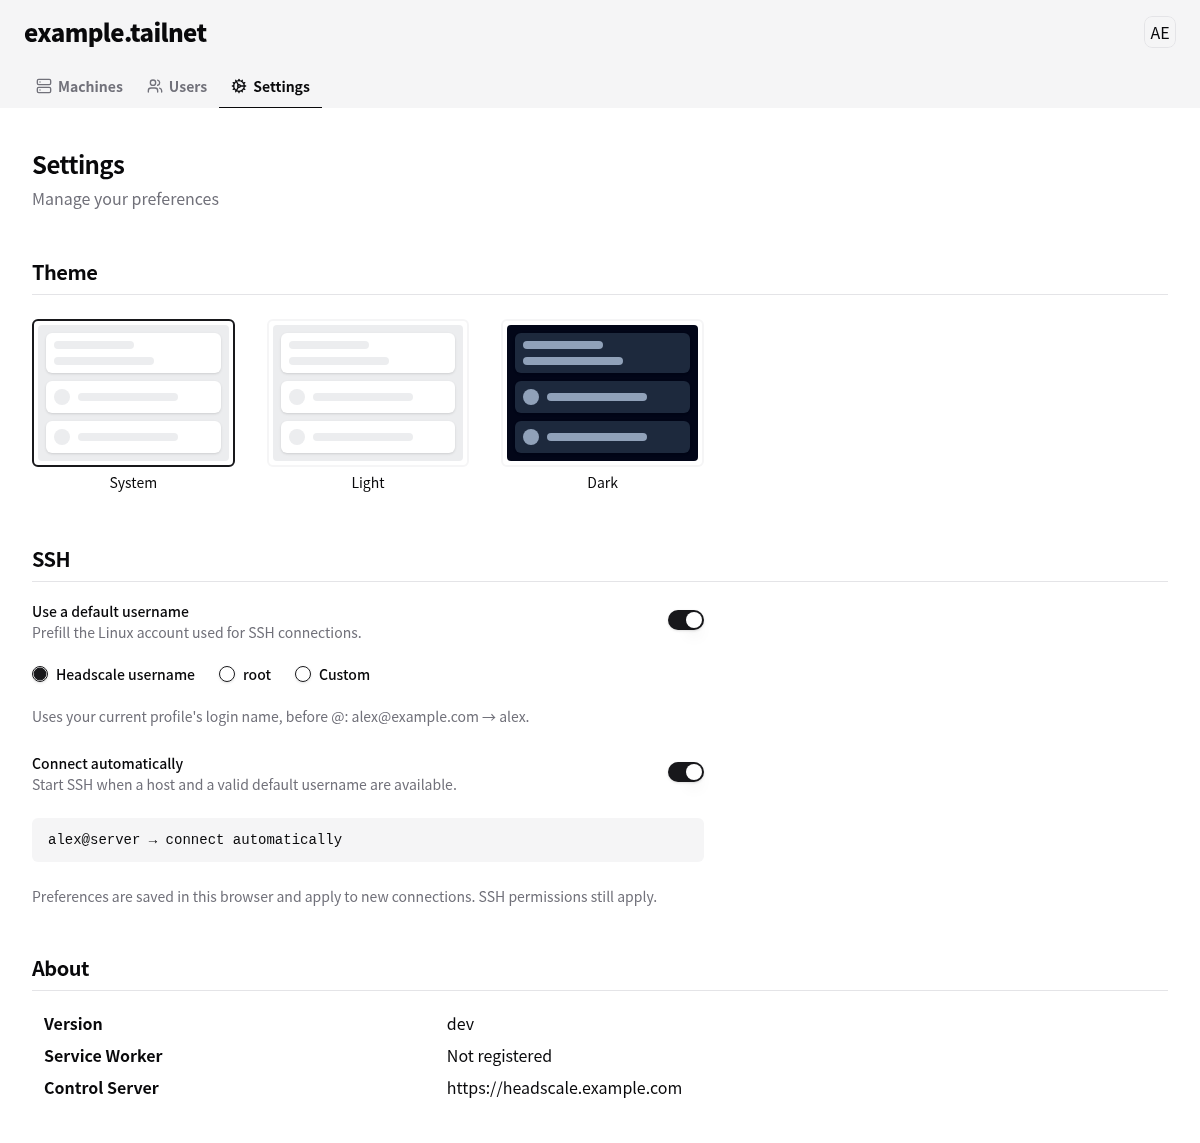
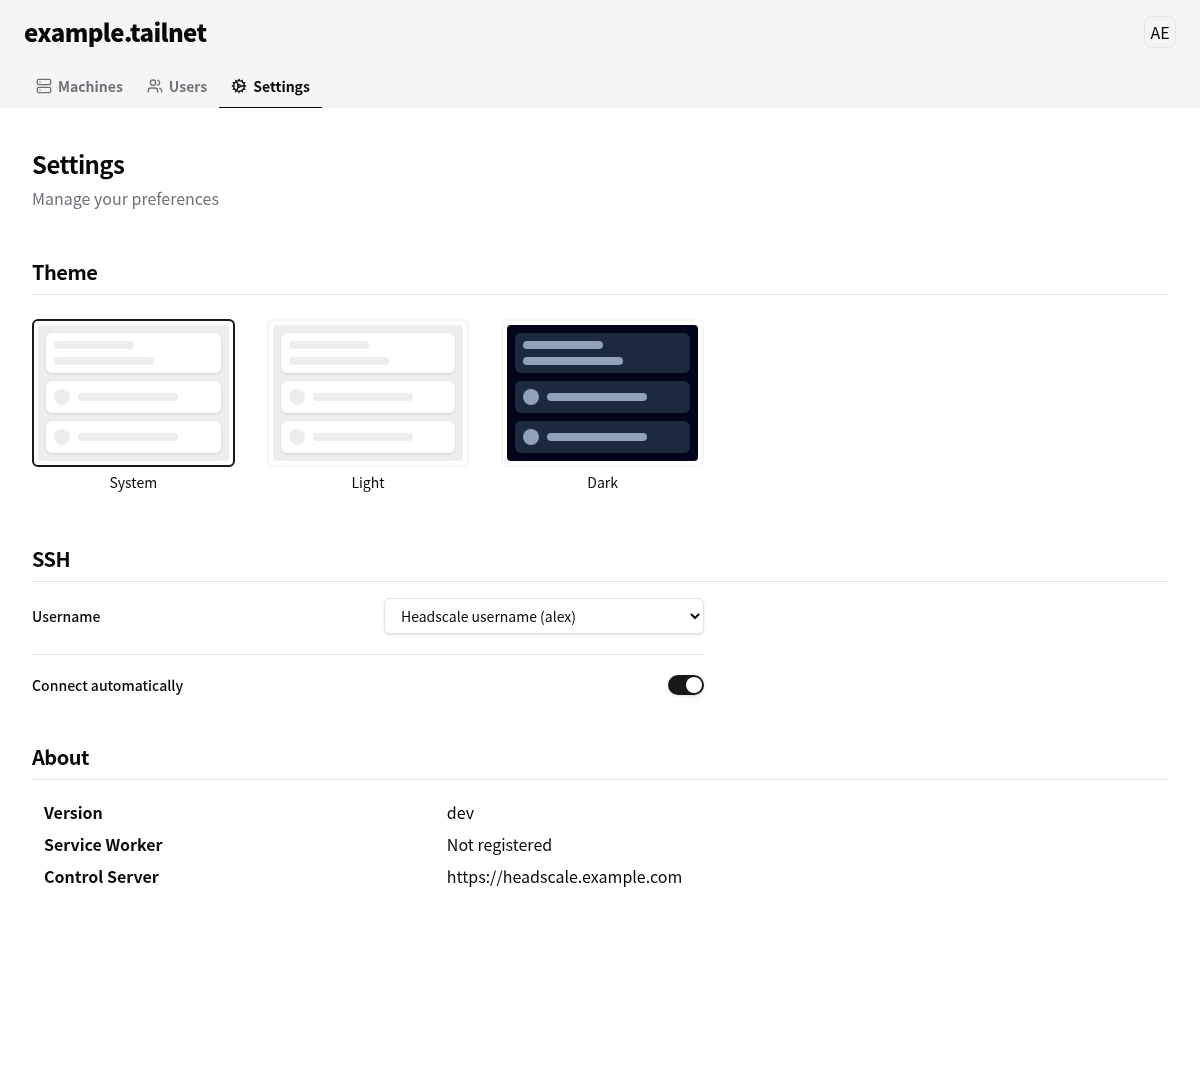
refactor(ssh): simplify connection preferences

diff --git a/docs/proposals/ssh-quick-connect/prototype.html b/docs/proposals/ssh-quick-connect/prototype.html
@@ -4,7 +4,7 @@
 <meta name="viewport" content="width=device-width, initial-scale=1">
 <title>SSH quick connect — interaction proposal</title>
 <style>
-:root{font:16px ui-sans-serif,system-ui,sans-serif;color:#09090b;background:white;--muted:#f4f4f5;--border:#e4e4e7;--subtle:#71717a}*{box-sizing:border-box}body{margin:0}header,nav{background:var(--muted)}header{padding:18px 32px;font-size:24px;font-weight:800;letter-spacing:-.6px}header span{float:right;font-size:14px;font-weight:500;border:1px solid var(--border);border-radius:8px;padding:7px}nav{padding:8px 32px 0;display:flex;gap:24px}nav a{padding:10px 0 16px;color:var(--subtle);text-decoration:none;font-size:14px}nav a.active{color:#18181b;border-bottom:1px solid}main{max-width:1280px;margin:auto;padding:36px 32px}h1{font-size:24px;letter-spacing:-.6px;margin:0}h2{font-size:20px;letter-spacing:-.5px;border-bottom:1px solid var(--border);padding-bottom:8px;margin:36px 0 20px}p{color:var(--subtle);margin:7px 0;font-size:14px;line-height:1.6}.themes{display:flex;gap:32px}.theme{width:180px;text-align:center}.mini{height:85px;background:#ecedef;padding:12px;border:2px solid var(--border);border-radius:6px}.mini.dark{background:#020617}.mini.system{border-color:#18181b}.mini i{display:block;height:15px;background:white;margin-bottom:8px;border-radius:5px}.mini.dark i{background:#1e293b}.theme p{color:inherit}.row{display:flex;align-items:center;justify-content:space-between;max-width:680px;margin:20px 0;gap:24px}.row label{font-size:14px;font-weight:500}.switch{width:36px;height:20px;border-radius:20px;background:#18181b;border:0;padding:2px;cursor:pointer;flex-shrink:0}.switch:before{content:'';display:block;width:16px;height:16px;border-radius:50%;background:white;transform:translateX(16px)}.switch[aria-checked=false]{background:var(--border)}.switch[aria-checked=false]:before{transform:none}.choices{display:flex;gap:20px;margin-top:16px;flex-wrap:wrap;font-size:14px}.choices label{display:flex;align-items:center;gap:5px}input[type=radio]{accent-color:#18181b}input[type=text]{height:36px;border:1px solid var(--border);border-radius:6px;padding:8px 12px;font:inherit;font-size:14px;width:300px}.preview{background:var(--muted);border-radius:6px;padding:12px 16px;max-width:680px;margin-top:20px;font:13px ui-monospace,monospace}button,a{touch-action:manipulation}button:focus-visible,a:focus-visible,input:focus-visible{outline:2px solid #18181b;outline-offset:3px}.note{margin-top:28px;padding-top:16px;border-top:1px solid var(--border);font-size:12px}.terminal-header{height:60px;border-bottom:1px solid var(--border);display:flex;align-items:center;gap:16px;padding:10px 20px;font-size:14px}.terminal-header a{color:var(--subtle);text-decoration:none}.terminal-header strong{margin-right:auto}.button{border:1px solid var(--border);padding:7px 12px;border-radius:6px;background:white;font:inherit;font-size:14px;cursor:pointer}.terminal{height:calc(100vh - 60px);background:#000;color:#e4e4e7;padding:20px;font:14px/1.8 ui-monospace,SFMono-Regular,monospace;white-space:pre-wrap}.cursor{display:inline-block;background:#e4e4e7;width:8px;height:16px;vertical-align:middle}#terminal-page{display:none}#terminal-page:target{display:block}body:has(#terminal-page:target) #settings-page{display:none}@media(max-width:600px){main{padding:24px 20px}.themes{gap:12px}.theme{width:30%}.terminal-header{flex-wrap:wrap;height:auto}.terminal{height:80vh}}
+:root{font:16px ui-sans-serif,system-ui,sans-serif;color:#09090b;background:white;--muted:#f4f4f5;--border:#e4e4e7;--subtle:#71717a}*{box-sizing:border-box}body{margin:0}header,nav{background:var(--muted)}header{padding:18px 32px;font-size:24px;font-weight:800;letter-spacing:-.6px}header span{float:right;font-size:14px;font-weight:500;border:1px solid var(--border);border-radius:8px;padding:7px}nav{padding:8px 32px 0;display:flex;gap:24px}nav a{padding:10px 0 16px;color:var(--subtle);text-decoration:none;font-size:14px}nav a.active{color:#18181b;border-bottom:1px solid}main{max-width:1280px;margin:auto;padding:36px 32px}h1{font-size:24px;letter-spacing:-.6px;margin:0}h2{font-size:20px;letter-spacing:-.5px;border-bottom:1px solid var(--border);padding-bottom:8px;margin:36px 0 20px}p{color:var(--subtle);margin:7px 0;font-size:14px;line-height:1.6}.themes{display:flex;gap:32px}.theme{width:180px;text-align:center}.mini{height:85px;background:#ecedef;padding:12px;border:2px solid var(--border);border-radius:6px}.mini.dark{background:#020617}.mini.system{border-color:#18181b}.mini i{display:block;height:15px;background:white;margin-bottom:8px;border-radius:5px}.mini.dark i{background:#1e293b}.theme p{color:inherit}.row{display:flex;align-items:center;justify-content:space-between;max-width:680px;margin:20px 0;gap:24px}.row label{font-size:14px;font-weight:500}.switch{width:36px;height:20px;border-radius:20px;background:#18181b;border:0;padding:2px;cursor:pointer;flex-shrink:0}.switch:before{content:'';display:block;width:16px;height:16px;border-radius:50%;background:white;transform:translateX(16px)}.switch[aria-checked=false]{background:var(--border)}.switch[aria-checked=false]:before{transform:none}.choices{display:flex;gap:20px;margin-top:16px;flex-wrap:wrap;font-size:14px}.choices label{display:flex;align-items:center;gap:5px}input[type=radio]{accent-color:#18181b}input[type=text]{height:36px;border:1px solid var(--border);border-radius:6px;padding:8px 12px;font:inherit;font-size:14px;width:300px}.preview{background:var(--muted);border-radius:6px;padding:12px 16px;max-width:680px;margin-top:20px;font:13px ui-monospace,monospace}button,a{touch-action:manipulation}[hidden]{display:none!important}button:focus-visible,a:focus-visible,input:focus-visible,select:focus-visible{outline:2px solid #18181b;outline-offset:3px}.note{margin-top:28px;padding-top:16px;border-top:1px solid var(--border);font-size:12px}.terminal-header{height:60px;border-bottom:1px solid var(--border);display:flex;align-items:center;gap:16px;padding:10px 20px;font-size:14px}.terminal-header a{color:var(--subtle);text-decoration:none}.terminal-header strong{margin-right:auto}.button{border:1px solid var(--border);padding:7px 12px;border-radius:6px;background:white;font:inherit;font-size:14px;cursor:pointer}.terminal{height:calc(100vh - 60px);background:#000;color:#e4e4e7;padding:20px;font:14px/1.8 ui-monospace,SFMono-Regular,monospace;white-space:pre-wrap}.cursor{display:inline-block;background:#e4e4e7;width:8px;height:16px;vertical-align:middle}#terminal-page{display:none}#terminal-page:target{display:block}body:has(#terminal-page:target) #settings-page{display:none}@media(max-width:600px){main{padding:24px 20px}.themes{gap:12px}.theme{width:30%}.terminal-header{flex-wrap:wrap;height:auto}.terminal{height:80vh}}
 </style>
 <div id="settings-page">
   <header>example.tailnet <span>AL</span></header>
@@ -14,17 +14,9 @@
     <h2>Theme</h2>
     <div class="themes"><div class="theme"><div class="mini system"><i></i><i></i><i></i></div><p>System</p></div><div class="theme"><div class="mini"><i></i><i></i><i></i></div><p>Light</p></div><div class="theme"><div class="mini dark"><i></i><i></i><i></i></div><p>Dark</p></div></div>
     <h2>SSH</h2>
-    <div class="row"><div><label id="default-label">Use a default username</label><p>Prefill the Linux account used for SSH connections.</p></div><button class="switch" role="switch" aria-checked="true" aria-labelledby="default-label" onclick="toggle(this)"></button></div>
-    <div class="choices" role="group" aria-label="Username source">
-      <label><input type="radio" name="source" value="headscale" checked onchange="update()"> Headscale username</label>
-      <label><input type="radio" name="source" value="root" onchange="update()"> root</label>
-      <label><input type="radio" name="source" value="custom" onchange="update()"> Custom</label>
-    </div>
-    <p id="source-help">Uses your current profile's login name, before @: alex@example.com → alex.</p>
-    <div id="custom" hidden><label for="custom-name">Custom username</label><p><input type="text" id="custom-name" value="deploy" oninput="update()"></p></div>
-    <div class="row"><div><label id="auto-label">Connect automatically</label><p>Start SSH when a host and a valid default username are available.</p></div><button class="switch" role="switch" aria-checked="true" aria-labelledby="auto-label" onclick="toggle(this)"></button></div>
-    <div class="preview" id="preview">Example: alex@server → connect automatically</div>
-    <p>Preferences are saved in this browser. SSH permissions still apply.</p>
+    <div class="row"><label for="username-mode">Username</label><select id="username-mode" onchange="choose()" style="height:36px;width:320px;max-width:65%;padding:0 12px;border:1px solid var(--border);border-radius:6px;background:white;color:inherit;font:inherit;font-size:14px"><option value="ask">Ask every time</option><option value="headscale" selected>Headscale username (alex)</option><option value="root">root</option><option value="custom">Custom</option></select></div>
+    <div class="row" id="custom" hidden><label for="custom-name">Custom username</label><input type="text" id="custom-name" value="deploy" oninput="update()" style="max-width:65%"></div>
+    <div class="row" style="border-top:1px solid var(--border);padding-top:20px"><label id="auto-label">Connect automatically</label><button class="switch" role="switch" aria-checked="true" aria-labelledby="auto-label" onclick="toggle(this)"></button></div>
     <p><a href="#terminal-page" class="button">Preview terminal →</a></p>
     <p class="note">Interaction prototype · Based on src/routes/Settings.svelte, Layout.svelte and the existing monochrome theme. Example data; no network connection is made.</p>
   </main>
@@ -38,6 +30,7 @@ alex@server:~$ <span class="cursor"></span></div>
 </div>
 <script>
 function toggle(el){el.setAttribute('aria-checked',el.getAttribute('aria-checked')==='true'?'false':'true');update()}
-function update(){const source=document.querySelector('input[name=source]:checked').value;const name=source==='root'?'root':source==='custom'?document.getElementById('custom-name').value.trim():'alex';document.getElementById('custom').hidden=source!=='custom';document.getElementById('source-help').textContent=source==='headscale'?"Uses your current profile's login name, before @: alex@example.com → alex.":source==='root'?'Requests the root account. The server must explicitly allow it.':'Enter the Linux account to use on the destination.';const switches=document.querySelectorAll('.switch');const enabled=switches[0].getAttribute('aria-checked')==='true';const auto=switches[1].getAttribute('aria-checked')==='true';document.getElementById('preview').textContent=enabled&&name?`Example: ${name}@server → ${auto?'connect automatically':'confirm username'}`:'Example: server → enter username';document.getElementById('target').textContent=`${name}@server`;}
+function choose(){const ask=document.getElementById('username-mode').value==='ask';const button=document.querySelector('.switch');button.disabled=ask;if(ask)button.setAttribute('aria-checked','false');update()}
+function update(){const source=document.getElementById('username-mode').value;const name=source==='root'?'root':source==='custom'?document.getElementById('custom-name').value.trim():'alex';document.getElementById('custom').hidden=source!=='custom';document.getElementById('target').textContent=`${name}@server`;}
 </script>
 </html>

diff --git a/src/routes/Settings.svelte b/src/routes/Settings.svelte
@@ -21,9 +21,25 @@
 
   let theme = $state<"dark" | "light" | "system">($userPrefersMode);
   const ssh = $derived(sshPreferences($userSettings));
+  let customUsernameTouched = $state(false);
+  const usernameMode = $derived(ssh.enabled ? ssh.source ?? "ask" : "ask");
+  const profileUsername = $derived(defaultSSHUsername(
+    { ...ssh, enabled: true, source: "headscale" },
+    window.ipnProfiles?.currentProfile?.Config.UserProfile.LoginName,
+  ));
   const sshUsername = $derived(defaultSSHUsername(
     ssh, window.ipnProfiles?.currentProfile?.Config.UserProfile.LoginName,
   ));
+
+  function setUsernameMode(mode: string) {
+    customUsernameTouched = false;
+    userSettings.update((settings) => ({
+      ...settings,
+      [UserSettingKeys.SSHDefaultUsernameEnabled]: String(mode !== "ask"),
+      [UserSettingKeys.SSHUsernameSource]: mode === "ask" ? ssh.source ?? "headscale" : mode,
+      ...(mode === "ask" ? { [UserSettingKeys.SSHAutoConnect]: "false" } : {}),
+    }));
+  }
 
   function setSSHSetting(key: UserSettingKeys, value: string) {
     userSettings.update((settings) => ({ ...settings, [key]: value }));
@@ -168,61 +184,57 @@
       SSH
     </h2>
 
-    <div class="max-w-2xl space-y-6">
-      <div class="flex items-center justify-between gap-6">
-        <div class="space-y-1.5">
-          <Label for="ssh-default-enabled">Use a default username</Label>
-          <p class="text-sm text-muted-foreground">Prefill the Linux account used for SSH connections.</p>
-        </div>
-        <Switch id="ssh-default-enabled" checked={ssh.enabled}
-          onCheckedChange={(value) => setSSHSetting(UserSettingKeys.SSHDefaultUsernameEnabled, String(value))} />
+    <div class="max-w-2xl space-y-5">
+      <div class="grid items-center gap-3 sm:grid-cols-[1fr_20rem]">
+        <Label for="ssh-username-mode">Username</Label>
+        <select
+          id="ssh-username-mode"
+          value={usernameMode}
+          onchange={(event) => setUsernameMode(event.currentTarget.value)}
+          aria-describedby={usernameMode === "headscale" && !profileUsername ? "ssh-profile-error" : undefined}
+          class="border-input bg-background text-foreground focus-visible:ring-ring h-9 w-full min-w-0 rounded-md border px-3 text-sm shadow-sm focus-visible:outline-none focus-visible:ring-1"
+        >
+          <option value="ask">Ask every time</option>
+          <option value="headscale">Headscale username{profileUsername ? ` (${profileUsername})` : ""}</option>
+          <option value="root">root</option>
+          <option value="custom">Custom</option>
+        </select>
       </div>
 
-      <RadioGroup.Root value={ssh.source} disabled={!ssh.enabled} aria-label="SSH username source"
-        class="flex flex-wrap gap-6"
-        onValueChange={(value) => setSSHSetting(UserSettingKeys.SSHUsernameSource, value)}>
-        {#each [["headscale", "Headscale username"], ["root", "root"], ["custom", "Custom"]] as [value, label]}
-          <div class="flex items-center gap-2">
-            <RadioGroup.Item id={`ssh-source-${value}`} {value} />
-            <Label for={`ssh-source-${value}`}>{label}</Label>
+      {#if usernameMode === "custom"}
+        {@const invalidUsername = !sshUsername && (customUsernameTouched || ssh.customUsername.length > 0)}
+        <div class="grid items-start gap-3 sm:grid-cols-[1fr_20rem]">
+          <Label for="ssh-custom-username" class="sm:pt-2.5">Custom username</Label>
+          <div class="space-y-2">
+            <Input
+              id="ssh-custom-username"
+              value={ssh.customUsername}
+              autocomplete="off"
+              spellcheck="false"
+              maxlength={64}
+              aria-invalid={invalidUsername}
+              aria-describedby={invalidUsername ? "ssh-username-error" : undefined}
+              onblur={() => customUsernameTouched = true}
+              oninput={(event) => setSSHSetting(UserSettingKeys.SSHCustomUsername, event.currentTarget.value)}
+            />
+            {#if invalidUsername}
+              <p id="ssh-username-error" class="text-sm text-destructive" role="status">Enter a valid Linux username.</p>
+            {/if}
           </div>
-        {/each}
-      </RadioGroup.Root>
-
-      {#if ssh.source === "headscale"}
-        <p class="text-sm text-muted-foreground">Uses your current profile's login name, before @: alex@example.com → alex.</p>
-      {:else if ssh.source === "root"}
-        <p class="text-sm text-muted-foreground">Requests the root account. The server must explicitly allow it.</p>
-      {:else}
-        <div class="space-y-2">
-          <Label for="ssh-custom-username">Custom username</Label>
-          <Input id="ssh-custom-username" class="max-w-sm" value={ssh.customUsername} disabled={!ssh.enabled}
-            autocomplete="off" spellcheck="false" maxlength={64}
-            oninput={(event) => setSSHSetting(UserSettingKeys.SSHCustomUsername, event.currentTarget.value)} />
         </div>
+      {:else if usernameMode === "headscale" && !profileUsername}
+        <p id="ssh-profile-error" class="text-sm text-muted-foreground" role="status">No usable username in this profile.</p>
       {/if}
 
-      {#if ssh.enabled && !sshUsername}
-        <p class="text-sm text-muted-foreground" role="status">No valid default username. Enter a Linux username when connecting, or choose another source.</p>
-      {/if}
-
-      <div class="flex items-center justify-between gap-6">
-        <div class="space-y-1.5">
-          <Label for="ssh-auto-connect">Connect automatically</Label>
-          <p class="text-sm text-muted-foreground">Start SSH when a host and a valid default username are available.</p>
-        </div>
-        <Switch id="ssh-auto-connect" checked={ssh.autoConnect} disabled={!ssh.enabled}
-          onCheckedChange={(value) => setSSHSetting(UserSettingKeys.SSHAutoConnect, String(value))} />
+      <div class="flex items-center justify-between gap-6 border-t pt-5">
+        <Label for="ssh-auto-connect">Connect automatically</Label>
+        <Switch
+          id="ssh-auto-connect"
+          checked={Boolean(sshUsername) && ssh.autoConnect}
+          disabled={!sshUsername}
+          onCheckedChange={(value) => setSSHSetting(UserSettingKeys.SSHAutoConnect, String(value))}
+        />
       </div>
-
-      <p class="rounded-md bg-muted px-4 py-3 font-mono text-sm" aria-live="polite">
-        {#if sshUsername}
-          {sshUsername}@server → {ssh.autoConnect ? "connect automatically" : "confirm username"}
-        {:else}
-          server → enter username
-        {/if}
-      </p>
-      <p class="text-sm text-muted-foreground">Preferences are saved in this browser and apply to new connections. SSH permissions still apply.</p>
     </div>
   </section>
 

diff --git a/tests/ssh.spec.ts b/tests/ssh.spec.ts
@@ -24,27 +24,89 @@ const enabled = {
   "ssh-auto-connect": "true",
 };
 
-test("settings persist three username sources and an explicit opt-out", async ({ page }) => {
+test("settings persist username choices and an explicit opt-out", async ({ page }) => {
   await page.goto("/tests/browser.html?defaults#/settings");
-  await expect(page.getByRole("switch", { name: "Use a default username" }))
+  const username = page.getByRole("combobox", {
+    name: "Username",
+    exact: true,
+  });
+  await expect(username).toHaveValue("headscale");
+  await expect(username.locator("option:checked")).toHaveText(
+    "Headscale username (alex)",
+  );
+  await username.selectOption("root");
+  await expect(page.getByLabel("Custom username", { exact: true })).toHaveCount(
+    0,
+  );
+  await username.selectOption("custom");
+  await expect(page.getByRole("switch", { name: "Connect automatically" }))
+    .toBeDisabled();
+  await expect(page.getByRole("switch", { name: "Connect automatically" })).not
     .toBeChecked();
-  await page.getByRole("radio", { name: "root", exact: true }).check();
-  await expect(page.getByText("root@server → connect automatically"))
-    .toBeVisible();
-  await page.getByRole("radio", { name: "Custom", exact: true }).check();
   await page.getByLabel("Custom username", { exact: true }).fill("deploy");
-  await expect(page.getByText("deploy@server → connect automatically"))
-    .toBeVisible();
   await page.getByRole("switch", { name: "Connect automatically" }).uncheck();
   await page.reload();
   await expect(page.getByRole("switch", { name: "Connect automatically" })).not
     .toBeChecked();
+  await expect(username).toHaveValue("custom");
   await expect(page.getByLabel("Custom username", { exact: true })).toHaveValue(
     "deploy",
   );
-  await page.getByRole("radio", { name: "Headscale username", exact: true })
-    .check();
-  await expect(page.getByText("alex@server → confirm username")).toBeVisible();
+  await username.selectOption("headscale");
+  await expect(username.locator("option:checked")).toHaveText(
+    "Headscale username (alex)",
+  );
+});
+
+test("ask every time turns automatic connection off and remains off after reload", async ({ page }) => {
+  await page.goto("/tests/browser.html?defaults#/settings");
+  const username = page.getByRole("combobox", {
+    name: "Username",
+    exact: true,
+  });
+  const autoConnect = page.getByRole("switch", {
+    name: "Connect automatically",
+  });
+  await expect(autoConnect).toBeChecked();
+  await username.selectOption("ask");
+  await expect(autoConnect).not.toBeChecked();
+  await expect(autoConnect).toBeDisabled();
+  await page.reload();
+  await expect(username).toHaveValue("ask");
+  await username.selectOption("root");
+  await expect(autoConnect).toBeEnabled();
+  await expect(autoConnect).not.toBeChecked();
+});
+
+test("custom validation is contextual and the compact form works on mobile and keyboard", async ({ page }) => {
+  await page.setViewportSize({ width: 390, height: 844 });
+  await page.goto("/tests/browser.html#/settings");
+  const username = page.getByRole("combobox", {
+    name: "Username",
+    exact: true,
+  });
+  await expect(username).toHaveValue("ask");
+  await username.focus();
+  await page.keyboard.press("ArrowDown");
+  await page.keyboard.press("Enter");
+  await expect(username).toHaveValue("headscale");
+  await username.selectOption("custom");
+  const custom = page.getByLabel("Custom username", { exact: true });
+  await expect(page.getByText("Enter a valid Linux username.")).toHaveCount(0);
+  await custom.fill("bad name");
+  await expect(custom).toHaveAttribute("aria-invalid", "true");
+  await expect(custom).toHaveAccessibleDescription(
+    "Enter a valid Linux username.",
+  );
+  await expect(page.getByText("Enter a valid Linux username.")).toBeVisible();
+  await custom.fill("deploy");
+  await expect(custom).toHaveAttribute("aria-invalid", "false");
+  await expect(page.getByText("Enter a valid Linux username.")).toHaveCount(0);
+  expect(
+    await page.evaluate(() =>
+      document.documentElement.scrollWidth > innerWidth
+    ),
+  ).toBe(false);
 });
 
 for (

diff --git a/docs/configuration.md b/docs/configuration.md
@@ -55,10 +55,14 @@ On startup the app tries to load `./config.json`.
 
 ### defaults
 
-Optional initial browser preferences. Settings → SSH offers two independent
-switches, **Use a default username** and **Connect automatically**, both off by
-default. Local browser choices override deployment defaults, including explicit
-`"false"`. Preferences apply to new connections, not active sessions.
+Optional initial browser preferences. Settings → SSH offers a **Username** selector
+and a **Connect automatically** switch. **Ask every time** is the default username
+mode; selecting it also turns automatic connection off. Choosing Headscale, root
+or Custom enables a default username, with the resolved Headscale account shown
+in the selector and the custom field displayed only when needed. Local browser
+choices override deployment defaults, including explicit `"false"`. Preferences
+apply to new connections, not active sessions. Existing preference keys remain
+compatible; the separate username-enabled switch is no longer displayed.
 
 ```json
 {
